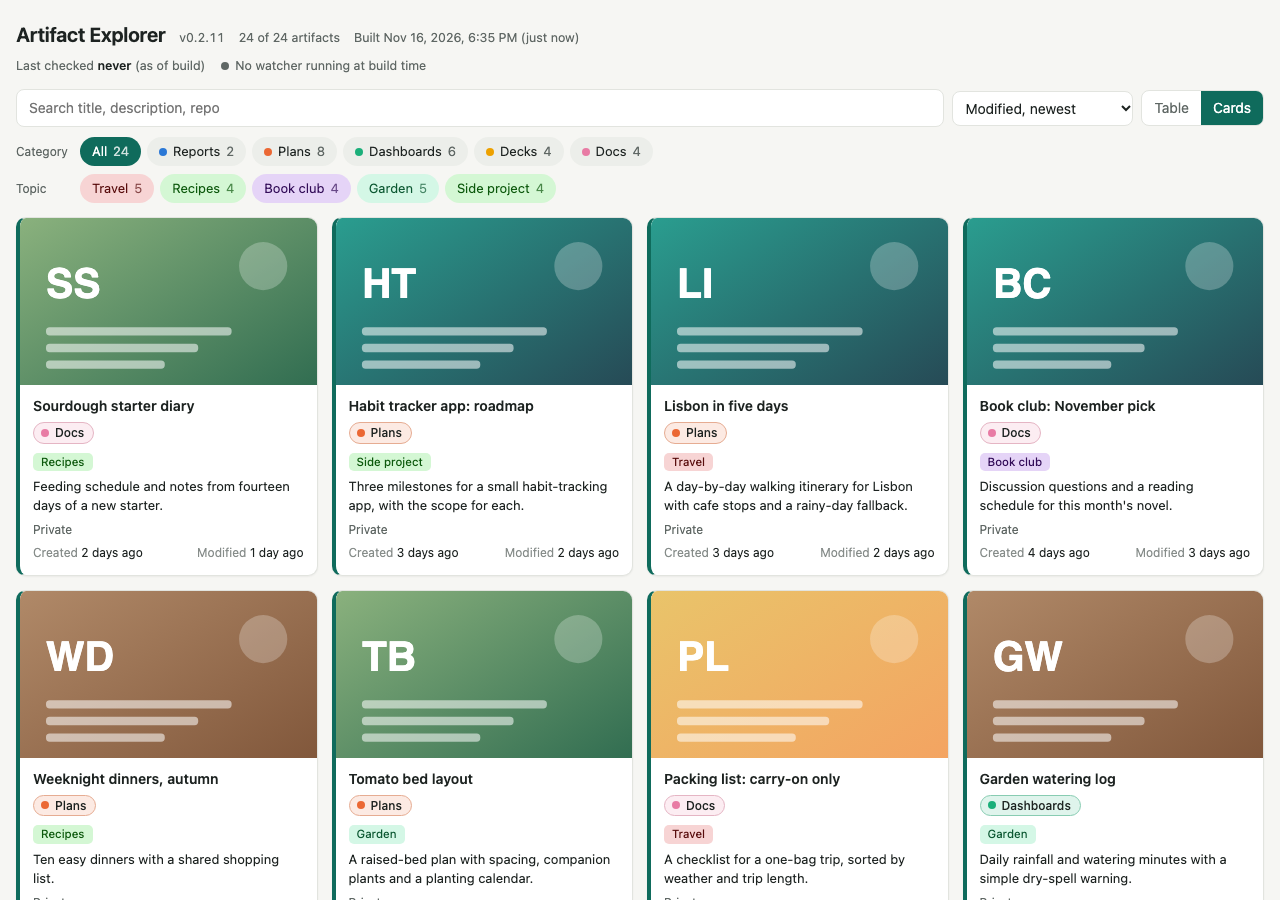
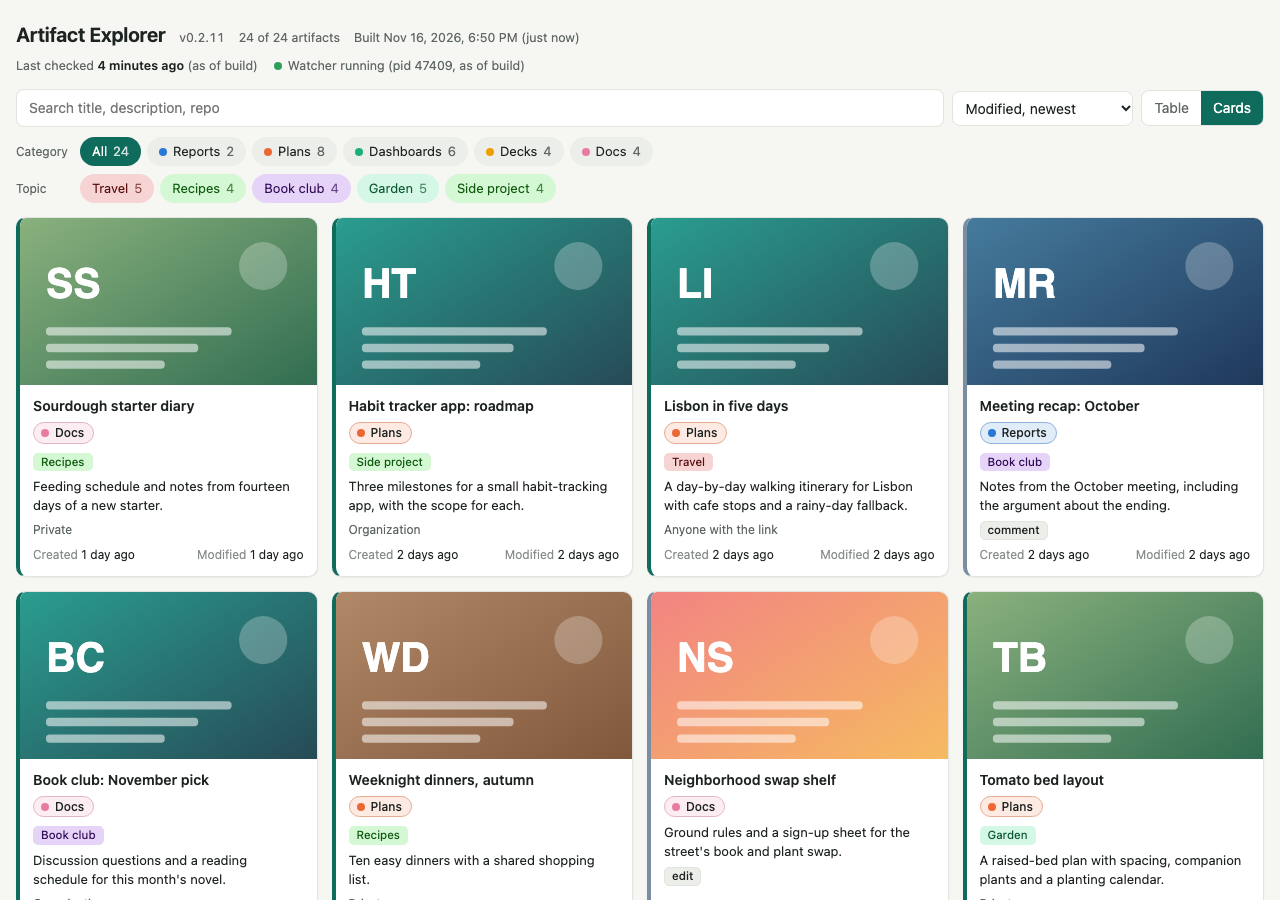
0.2.11: demo shows a working page (watcher, sharing mix, sizes, repos); neutral sample topic in older tests

diff --git a/plugins/artifact-explorer/scripts/dev/demo_data.py b/plugins/artifact-explorer/scripts/dev/demo_data.py
@@ -1,7 +1,7 @@
 #!/usr/bin/env python3
 """Write a fully invented demo catalog (explorer.db, config.toml, SVG thumbnails) for README screenshots.
 
-    python3 scripts/dev/demo_data.py OUT_DIR && AE_DATA=OUT_DIR python3 scripts/ae.py build
+    python3 scripts/dev/demo_data.py OUT_DIR   # writes the data and builds OUT_DIR/explorer.html
 
 Everything is made up: generic hobby themes, fake people, fake ids. Nothing comes from a real catalog.
 """
@@ -27,7 +27,7 @@ ROWS = [
     ("Book club: November pick", "Docs", "Docs", ["Book club"], "Discussion questions and a reading schedule for this month's novel.", 3, 1, "", ""),
     ("Reading list 2027", "Docs", "Plans", ["Book club"], "Twenty-four candidate books voted on by the club.", 8, 1, "", ""),
     ("Book club scoreboard", "Dashboard", "Dashboards", ["Book club"], "Who read what, ratings per book, and the all-time favorites.", 15, 1, "", ""),
-    ("Meeting recap: October", "Docs", "Reports", ["Book club"], "Notes from the October meeting, including the argument about the ending.", 27, 0, "Priya Raman", "comment"),
+    ("Meeting recap: October", "Docs", "Reports", ["Book club"], "Notes from the October meeting, including the argument about the ending.", 2, 0, "Priya Raman", "comment"),
     ("Tomato bed layout", "Docs", "Plans", ["Garden"], "A raised-bed plan with spacing, companion plants and a planting calendar.", 5, 1, "", ""),
     ("Garden watering log", "Dashboard", "Dashboards", ["Garden"], "Daily rainfall and watering minutes with a simple dry-spell warning.", 7, 1, "", ""),
     ("Seed order summary", "Docs", "Reports", ["Garden"], "What was ordered, what arrived, and what to reorder in spring.", 19, 1, "", ""),
@@ -39,8 +39,11 @@ ROWS = [
     ("Weekend hike planner", "Docs", "Plans", ["Travel", "Garden"], "Trail options near town ranked by length, shade and parking.", 12, 1, "", ""),
     ("Birthday party plan", "Docs", "Plans", [], "Guest list, menu and a timeline for a small backyard party.", 16, 1, "", ""),
     ("Monthly household budget", "Dashboard", "Dashboards", [], "Income against groceries, subscriptions and fun money for the year.", 18, 1, "", ""),
-    ("Neighborhood swap shelf", "Docs", "Docs", [], "Ground rules and a sign-up sheet for the street's book and plant swap.", 34, 0, "Lena Okafor", "edit"),
+    ("Neighborhood swap shelf", "Docs", "Docs", [], "Ground rules and a sign-up sheet for the street's book and plant swap.", 5, 0, "Lena Okafor", "edit"),
 ]
+# owned rows that are not private (index into ROWS), and invented repo names for some rows
+SHARED = {0: "link", 3: "org", 8: "org", 16: "org", 18: "link", 21: "org"}
+REPOS = {16: "habit-tracker", 17: "habit-tracker", 18: "habit-tracker", 19: "habit-tracker", 2: "trip-notes", 12: "garden-notes", 13: "garden-notes", 9: "club-lists"}
 PALETTE = [("#2a9d8f", "#264653"), ("#e9c46a", "#f4a261"), ("#e76f51", "#b5838d"), ("#457b9d", "#1d3557"),
            ("#8ab17d", "#2d6a4f"), ("#b08968", "#7f5539"), ("#9d4edd", "#5a189a"), ("#f28482", "#f6bd60")]
 TOPIC_COLORS = {"Travel": "#457b9d", "Recipes": "#e76f51", "Book club": "#9d4edd", "Garden": "#2d6a4f", "Side project": "#b08968"}
@@ -76,11 +79,13 @@ def main(out):
             f.write(thumb_svg(title, i))
         t = now - ago * DAY
         db.upsert_artifact(con, a, url="https://claude.ai/artifact/" + a, title=title, kind=kind, owned=owned,
-                           creator=creator or None, sharing="private" if owned else None, created=t - DAY, modified=t,
+                           creator=creator or None, sharing=SHARED.get(i, "private") if owned else None, size=int((9 + (i * 37) % 180) * 1024 + i * 211), created=t - DAY, modified=t,
                            last_accessed=t, description=desc, desc_source="describer", desc_status="ok",
                            thumb=rel, thumb_source="demo", thumb_status="ok", category=cat, cat_source="describer",
                            topics='["%s"]' % '","'.join(topics) if topics else "[]", access=access or None,
                            other_org=0)
+        db.add_event(con, a, t, "publish", "demo", repo=REPOS.get(i))
+    db.state_set(con, "last_pass", now - 4 * 60)  # "last checked 4 minutes ago"
     con.commit()
     con.close()
     topics = "\n".join('[[topics]]\nname = "%s"\n' % n for n in TOPIC_COLORS)
@@ -88,7 +93,19 @@ def main(out):
         f.write('[page]\ntitle = "Artifact Explorer"\nupdate_check = false\n\n' + topics)
 
 
+def build(out):
+    """Build the page while this process stands in for a running watcher (the page shows it as of build)."""
+    import json
+    import subprocess
+    with open(os.path.join(out, "watcher.json"), "w", encoding="utf-8") as f:
+        json.dump({"pid": os.getpid(), "t": time.time()}, f)
+    env = dict(os.environ, AE_DATA=out, AE_UPDATE_CHECK="0")
+    root = os.path.join(os.path.dirname(os.path.abspath(__file__)), "..", "ae.py")
+    subprocess.check_call([sys.executable, root, "build"], env=env)
+
+
 if __name__ == "__main__":
     if len(sys.argv) != 2:
         sys.exit(__doc__)
     main(sys.argv[1])
+    build(sys.argv[1])

diff --git a/plugins/artifact-explorer/tests/test_v020.py b/plugins/artifact-explorer/tests/test_v020.py
@@ -68,16 +68,16 @@ class CategorizeTest(Base):
 
 
 class TopicsTest(Base):
-    TR = build.compile_topics(".", [{"name": "Housing Twin"}, {"name": "Monitors", "keywords": ["monitor", "triage"]}])
+    TR = build.compile_topics(".", [{"name": "Garden plan"}, {"name": "Monitors", "keywords": ["monitor", "triage"]}])
 
     def test_title_keywords_when_never_tagged(self):
-        self.assertEqual(build.tag_topics(self.TR, "Housing twin v2 triage", None, None), (["Housing Twin", "Monitors"], []))
+        self.assertEqual(build.tag_topics(self.TR, "Garden plan v2 triage", None, None), (["Garden plan", "Monitors"], []))
         self.assertEqual(build.tag_topics(self.TR, "Other", None, None), ([], []))
 
     def test_stored_list_wins_and_is_filtered(self):
-        t = build.tag_topics(self.TR, "Housing Twin", ["monitors", "Gone"], json.dumps(["New One"]))
-        self.assertEqual(t, (["Monitors", "Housing Twin"], ["New One"]))  # plus the title keyword match
-        self.assertEqual(build.tag_topics(self.TR, "Housing Twin", [], None)[1], [])
+        t = build.tag_topics(self.TR, "Garden plan", ["monitors", "Gone"], json.dumps(["New One"]))
+        self.assertEqual(t, (["Monitors", "Garden plan"], ["New One"]))  # plus the title keyword match
+        self.assertEqual(build.tag_topics(self.TR, "Garden plan", [], None)[1], [])
 
     def test_suggestion_becomes_topic_once_configured(self):
         self.assertEqual(build.tag_topics(self.TR, "x", [], ["monitors"]), (["Monitors"], []))
@@ -86,7 +86,7 @@ class TopicsTest(Base):
 class BatchTest(Base):
     def setUp(self):
         super().setUp()
-        self.cfg('[[topics]]\nname = "Housing Twin"\n[[topics]]\nname = "Monitors"\n')
+        self.cfg('[[topics]]\nname = "Garden plan"\n[[topics]]\nname = "Monitors"\n')
         for i in "ab":
             db.upsert_artifact(self.con, i * 10, title="Row " + i, owned=1, description="old" if i == "b" else None,
                                desc_source="describer" if i == "b" else None)
@@ -110,7 +110,7 @@ class BatchTest(Base):
         txt = open(os.path.join(f, "manifest.txt"), encoding="utf-8").read()
         self.assertIn("items: 1", out)
         self.assertIn("Categories (pick exactly one): Reports, Plans, Dashboards, Decks, Docs, Personal", txt)
-        self.assertIn("Housing Twin, Monitors", txt)
+        self.assertIn("Garden plan, Monitors", txt)
         self.assertIn("## ITEM aaaaaaaaaa\nfile: " + os.path.join(f, "aaaaaaaaaa.txt"), txt)
         self.assertNotIn("bbbbbbbbbb", txt)
         self.assertNotIn("Uncategorized", txt)
@@ -123,7 +123,7 @@ class BatchTest(Base):
         with open(res, "w", encoding="utf-8") as fh:
             fh.write("```json\n")
             fh.write(json.dumps({"id": "aaaaaaaaaa", "description": "A report on things.", "category": "reports",
-                                 "topics": ["monitors", "Nope", "Housing Twin", "Monitors"], "new_topic": "Cost Tools"}) + "\n")
+                                 "topics": ["monitors", "Nope", "Garden plan", "Monitors"], "new_topic": "Cost Tools"}) + "\n")
             fh.write("garbage line\n{not json}\n")
             fh.write(json.dumps({"id": "zzzzzzzzzz", "description": "x", "category": "Plans"}) + "\n")
             fh.write(json.dumps({"id": "bbbbbbbbbb", "category": "Made Up", "topics": ["Nope"]}) + "\n```\n")
@@ -132,7 +132,7 @@ class BatchTest(Base):
         a, b = db.get(self.con, "aaaaaaaaaa"), db.get(self.con, "bbbbbbbbbb")
         self.assertEqual((a["description"], a["desc_source"], a["category"], a["cat_source"]),
                          ("A report on things.", "describer", "Reports", "describer"))
-        self.assertEqual(json.loads(a["topics"]), ["Monitors", "Housing Twin"])
+        self.assertEqual(json.loads(a["topics"]), ["Monitors", "Garden plan"])
         self.assertEqual(json.loads(a["topic_suggest"]), ["Cost Tools"])
         self.assertEqual((b["category"], b["topics"], b["description"]), (None, None, "old"))  # unknown category dropped, no topics stays NULL
 

diff --git a/plugins/artifact-explorer/tests/test_v023_page.py b/plugins/artifact-explorer/tests/test_v023_page.py
@@ -34,8 +34,8 @@ class PaletteTest(unittest.TestCase):
             self.assertGreaterEqual(contrast(db_, df), 4.5)
 
     def test_slot_stable_and_normalized(self):
-        self.assertEqual(build.topic_slot("Housing Twin"), build.topic_slot("  housing   TWIN "))
-        self.assertEqual(build.topic_slot("Housing Twin"), build.topic_slot("Housing Twin"))
+        self.assertEqual(build.topic_slot("Garden plan"), build.topic_slot("  garden   PLAN "))
+        self.assertEqual(build.topic_slot("Garden plan"), build.topic_slot("Garden plan"))
         self.assertEqual(build.topic_slot("Change Orders"), build.topic_slot("change orders"))
         slots = {build.topic_slot("t%d" % i) for i in range(200)}
         self.assertEqual(slots, set(range(12)))
@@ -51,7 +51,7 @@ class CategorizeTest(unittest.TestCase):
         self.assertEqual(self.cat(kind="Docs", title="Plan"), "Docs")
 
     def test_titles(self):
-        self.assertEqual(self.cat(title="Q3 Housing deck"), "Decks")
+        self.assertEqual(self.cat(title="Q3 Garden deck"), "Decks")
         self.assertEqual(self.cat(title="Sprint Burndown"), "Dashboards")
         self.assertEqual(self.cat(title="Root-Cause Fix Plan"), "Plans")
         self.assertEqual(self.cat(title="Contributor Review"), "Reports")
@@ -74,21 +74,21 @@ class PageTest(unittest.TestCase):
     def setUp(self):
         self.d = helpers.tmp()
         con = db.connect(self.d)
-        db.upsert_artifact(con, "aaaaaaaaaa", title="Housing Twin plan", owned=1, created=100, modified=200,
-                           url="https://claude.ai/artifact/aaaaaaaaaa", description="d", topics='["Housing Twin"]')
+        db.upsert_artifact(con, "aaaaaaaaaa", title="Garden plan plan", owned=1, created=100, modified=200,
+                           url="https://claude.ai/artifact/aaaaaaaaaa", description="d", topics='["Garden plan"]')
         db.upsert_artifact(con, "bbbbbbbbbb", title="Mystery", owned=1, created=100)
         con.commit()
         con.close()
         with open(os.path.join(self.d, "config.toml"), "w") as f:
-            f.write('[[topics]]\nname = "Housing Twin"\n')
+            f.write('[[topics]]\nname = "Garden plan"\n')
 
     def test_builds_with_guessed_category_and_topic_slots(self):
         p = payload(build.build(self.d))
         rows = {r["id"]: r for r in p["rows"]}
         self.assertEqual(rows["aaaaaaaaaa"]["category"], "Plans")
         self.assertTrue(rows["aaaaaaaaaa"]["guessed"])
-        self.assertEqual(rows["aaaaaaaaaa"]["topics"], ["Housing Twin"])
-        self.assertEqual(p["config"]["topic_slots"]["Housing Twin"], build.topic_slot("Housing Twin"))
+        self.assertEqual(rows["aaaaaaaaaa"]["topics"], ["Garden plan"])
+        self.assertEqual(p["config"]["topic_slots"]["Garden plan"], build.topic_slot("Garden plan"))
         self.assertEqual(len(p["config"]["topic_palette"]), 12)
         con = db.connect(self.d)
         self.assertIsNone(con.execute("select category from artifacts where id='aaaaaaaaaa'").fetchone()[0])

diff --git a/plugins/artifact-explorer/tests/test_page_v020.py b/plugins/artifact-explorer/tests/test_page_v020.py
@@ -21,10 +21,10 @@ class TileTest(unittest.TestCase):
         return json.loads(subprocess.run([NODE], input=code, capture_output=True, encoding="utf-8", check=True).stdout)
 
     def test_initials(self):
-        titles = ["Housing Twin plan", "x", "  change-orders  dashboard", "\U0001F680\U0001F680", "!!! ???", "", "日本語の資料",
+        titles = ["Garden plan", "x", "  change-orders  dashboard", "\U0001F680\U0001F680", "!!! ???", "", "日本語の資料",
                   "Бюджет 2026", "single"]
         out = self.run_js("console.log(JSON.stringify(%s.map(initials)))" % json.dumps(titles))
-        self.assertEqual(out[0], "HT")
+        self.assertEqual(out[0], "GP")
         self.assertEqual(out[1], "X")
         self.assertEqual(out[2], "CO")
         self.assertEqual(out[3:6], ["?", "?", "?"])

diff --git a/plugins/artifact-explorer/README.md b/plugins/artifact-explorer/README.md
@@ -6,7 +6,7 @@ It stores a SQLite db, a `config.toml` and a static `explorer.html`. It needs Py
 
 ## Screenshots
 
-Invented demo data (`python3 scripts/dev/demo_data.py DIR`, then `AE_DATA=DIR python3 scripts/ae.py build`).
+Invented demo data (`python3 scripts/dev/demo_data.py DIR` writes the data and builds `DIR/explorer.html`).
 
 ![Cards, light](docs/screenshots/cards-light.png)
 ![Cards, dark](docs/screenshots/cards-dark.png)
